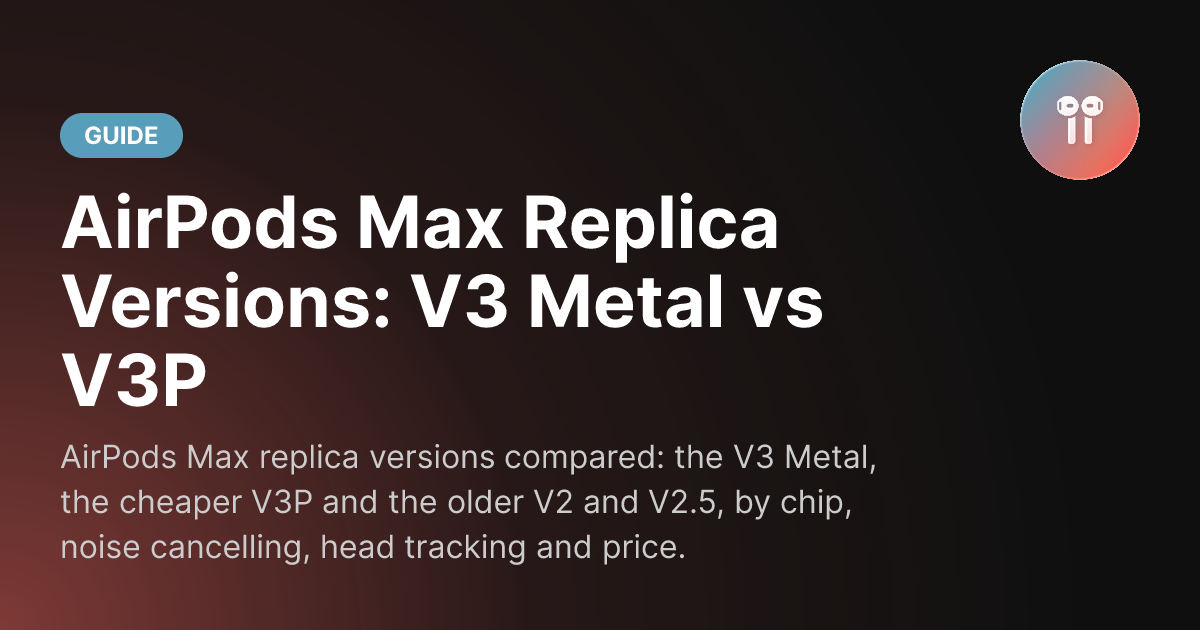
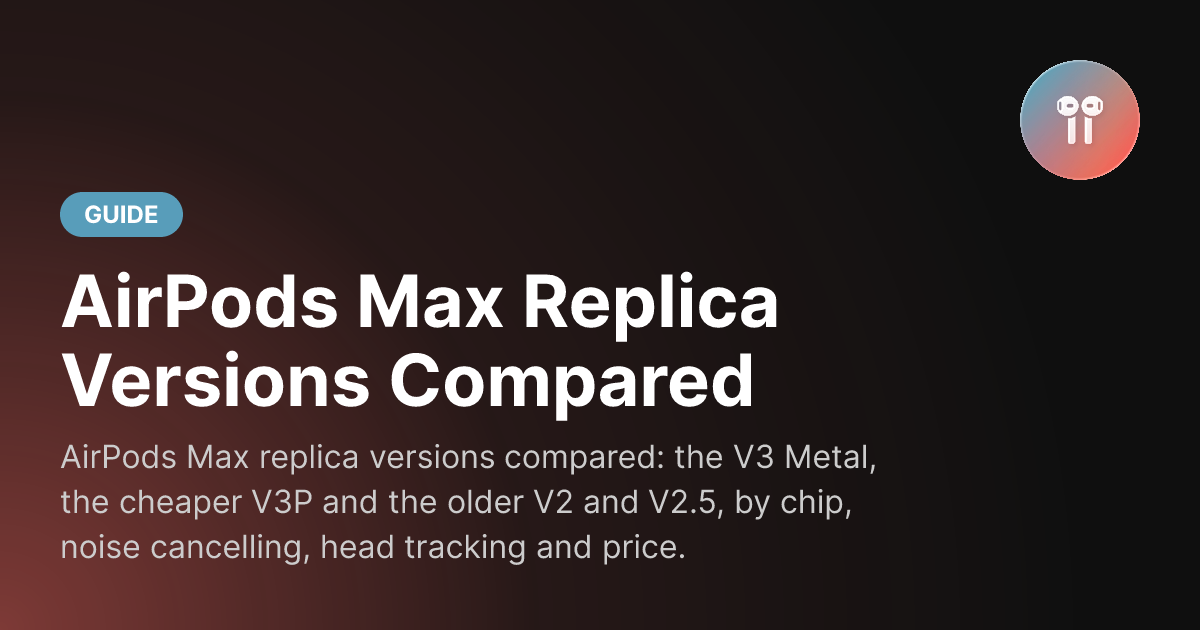
PayPal sometimes at HiCity too; FlyCC is on iOS; consistent Max title (#224)
Owner decision: PayPal is only sometimes available at HiCity, like Earhive.
The payments table cell and the how-to-buy FAQ (frontmatter and body) change
in all nine languages in this one commit so Translation Sync skips them;
llms-full.txt gets the same table row and FAQ line.

FlyCC article: five sentences said FlyCC is not on the iOS App Store and that
TigerBuilder uses CloudCC. Useful Apps links FlyCC on the App Store and says
CloudCC is a deprecated workaround for the storage permission issue, and the
AirPods Pro 2 page tells readers to check firmware in FlyCC on iOS. The
article now matches. The macOS mentions are unchanged.

AirPods Max versions title: "AirPods Max Replica Versions Compared", matching
the other version-info pages.

Changed region(s): [[0.0308, 0.4222, 0.7092, 0.6635], [0.0308, 0.3016, 0.6475, 0.4222], [0.0308, 0.181, 0.1542, 0.2714]]

diff --git a/docs/ru/ordering/how-to-buy.md b/docs/ru/ordering/how-to-buy.md
@@ -3,7 +3,7 @@ title: Как безопасно купить реплики AirPods
 description: 'Заказывайте реплики AirPods безопасно. Способы оплаты, проверенные продавцы, советы по доставке и как избежать мошенничества.'
 faq:
   - q: Какие способы оплаты принимают проверенные продавцы?
-    a: 'Проверенные продавцы принимают кредитные карты, Alipay, Revolut, Wise и Bitcoin. У всех продавцов есть витрины в Weidian, доступные через агентов, таких как KakoBuy. PayPal иногда доступен в Earhive, и агент KakoBuy также его принимает.'
+    a: 'Проверенные продавцы принимают кредитные карты, Alipay, Revolut, Wise и Bitcoin. У всех продавцов есть витрины в Weidian, доступные через агентов, таких как KakoBuy. PayPal иногда доступен в Earhive и HiCity, и агент KakoBuy также его принимает.'
   - q: Почему меня перенаправляют на криптовалютный сайт при оплате кредитной картой?
     a: 'Проверенные продавцы используют защищённый шлюз криптоплатежей для обработки оплат кредитной картой. Ваша карта покупает криптовалюту, которая завершает заказ. Чтобы избежать KYC, используйте KakoBuy — агента, принимающего обычные кредитные карты без проверки личности.'
   - q: Примечание по ссылкам на Alibaba и упаковке
@@ -42,7 +42,7 @@ faq:
 ## Часто задаваемые вопросы
 
 ::: details Какие методы оплаты принимают доверенные продавцы?
-Доверенные продавцы принимают несколько способов оплаты, включая кредитные карты, Alipay, Revolut, Wise и Bitcoin. У всех продавцов есть витрины на Weidian, доступные через агентов, таких как [KakoBuy](https://airreps.link/kakobuy) — ознакомьтесь с нашим [пошаговым руководством KakoBuy](/ru/ordering/kakobuy). PayPal иногда доступен в Earhive, и агент [KakoBuy](https://airreps.link/kakobuy) также его принимает. Варианты оплаты могут различаться в зависимости от продавца — см. [таблицу методов оплаты](/ru/links/info#payment-methods) для подробного разбора.
+Доверенные продавцы принимают несколько способов оплаты, включая кредитные карты, Alipay, Revolut, Wise и Bitcoin. У всех продавцов есть витрины на Weidian, доступные через агентов, таких как [KakoBuy](https://airreps.link/kakobuy) — ознакомьтесь с нашим [пошаговым руководством KakoBuy](/ru/ordering/kakobuy). PayPal иногда доступен в Earhive и HiCity, и агент [KakoBuy](https://airreps.link/kakobuy) также его принимает. Варианты оплаты могут различаться в зависимости от продавца — см. [таблицу методов оплаты](/ru/links/info#payment-methods) для подробного разбора.
 :::
 <span id="credit-card-note"></span>
 ::: details Почему меня перенаправляют на сайт крипто-платежей при оплате картой?

diff --git a/docs/articles/flycc-app-guide.md b/docs/articles/flycc-app-guide.md
@@ -9,10 +9,10 @@ order: 13
 
 FlyCC is the essential companion app for AirPods replicas running **Airoha chipsets** (including the Airoha 1562AE, 1562E, 1562F, and 1571AM). Because Apple's native iOS settings only expose surface-level controls, FlyCC provides low-level access to the silicon: custom parametric EQ tuning, touch sensor calibration, Active Noise Cancelling (ANC) balancing, and OTA firmware flashing.
 
-> **Quick Answer:** FlyCC is a free, third-party Android and macOS utility specifically designed for Airoha-based AirPods replicas. It lets you customize sound profiles via a built-in equalizer, modify pinch/tap sensitivity, and flash over-the-air firmware updates. It will not detect replicas powered by Huilian, BES, or budget Jieli chips.
+> **Quick Answer:** FlyCC is a free, third-party Android, iOS and macOS utility specifically designed for Airoha-based AirPods replicas. It lets you customize sound profiles via a built-in equalizer, modify pinch/tap sensitivity, and flash over-the-air firmware updates. It will not detect replicas powered by Huilian, BES, or budget Jieli chips.
 
-::: tip Android or Mac required
-FlyCC cannot be installed from the Apple iOS App Store due to Apple's third-party hardware restrictions. To configure your Airoha earbuds, install the Android APK on any Android smartphone, or run the community macOS release. Settings saved to the earbuds persist even when switched back to an iPhone.
+::: tip Android, iPhone or Mac
+FlyCC is available as an Android APK and on the iOS App Store; both are linked on [Useful Apps](/useful-apps#tigerbuilder). You can also run the community macOS release. Settings saved to the earbuds persist even when you switch to another phone.
 :::
 
 ## Supported chipsets
@@ -23,7 +23,7 @@ FlyCC works exclusively with **Airoha hardware**. If your earbuds connect, you h
 - **Airoha 1562E / 1563E** — Standard EQ, touch controls, and firmware tools.
 - **Airoha 1562F** — Legacy ANC and EQ controls.
 
-If FlyCC scans indefinitely and never detects your earbuds, your pair uses a different manufacturer's silicon (such as Huilian, which uses [Starfun](/useful-apps), or TigerBuilder, which uses [CloudCC](/useful-apps)) or an entry-level Jieli chip.
+If FlyCC scans indefinitely and never detects your earbuds, your pair uses a different manufacturer's silicon (such as Huilian, which uses [Starfun](/useful-apps)) or an entry-level Jieli chip.
 
 ## How to download and install FlyCC safely
 
@@ -87,9 +87,9 @@ Yes. The APKs hosted in the community Useful Apps directory are extracted from o
 :::
 
 ::: details Can I use FlyCC on an iPhone?
-No. Apple does not allow third-party apps to access raw Bluetooth serial profiles for non-MFi hardware. You must use an Android phone or a Mac to change FlyCC settings. However, all EQ and control changes write permanently to the earbuds' internal memory, so they carry over to your iPhone automatically.
+Yes. FlyCC is on the iOS App Store as well as an Android APK; both are linked on [Useful Apps](/useful-apps#tigerbuilder). All EQ and control changes write permanently to the earbuds' internal memory, so they stay when you switch devices.
 :::
 
 ::: details Why does FlyCC say "Device Not Found"?
-The most common reason is silicon mismatch: FlyCC only works with Airoha chips. If you own a Huilian model, use Starfun; if you own a TigerBuilder model, use CloudCC. If none connect, you likely have a budget Jieli unit.
+The most common reason is silicon mismatch: FlyCC only works with Airoha chips. If you own a Huilian model, use Starfun. TigerBuilder models use FlyCC; CloudCC is only a workaround if FlyCC hits the storage permission issue. If none connect, you likely have a budget Jieli unit.
 :::

diff --git a/docs/tr/ordering/how-to-buy.md b/docs/tr/ordering/how-to-buy.md
@@ -3,7 +3,7 @@ title: AirPods Replikalarını Güvenli Bir Şekilde Nasıl Satın Alınır
 description: 'AirPods replikalarını güvenli bir şekilde sipariş edin. Ödeme yöntemleri, güvenilir satıcılar, gönderim ipuçları ve dolandırıcılıklardan kaçınma.'
 faq:
   - q: Güvenilir satıcılar hangi ödeme yöntemlerini kabul ediyor?
-    a: 'Güvenilir satıcılar kredi kartları, Alipay, Revolut, Wise ve Bitcoin''i kabul eder. Tüm satıcıların KakoBuy gibi aracılar aracılığıyla erişilebilen Weidian vitrinleri vardır. PayPal, Earhive''da bazen kullanılabilir ve KakoBuy acentesi de PayPal''ı kabul eder.'
+    a: 'Güvenilir satıcılar kredi kartları, Alipay, Revolut, Wise ve Bitcoin''i kabul eder. Tüm satıcıların KakoBuy gibi aracılar aracılığıyla erişilebilen Weidian vitrinleri vardır. PayPal, Earhive ve HiCity''de bazen kullanılabilir ve KakoBuy acentesi de PayPal''ı kabul eder.'
   - q: Kredi kartı ile ödeme yaparken neden bir kripto web sitesine yönlendiriliyorum?
     a: Güvenilir satıcılar kredi kartı ödemelerini işlemek için güvenli bir kripto ödeme geçidi kullanır. Kartınız kripto satın alır; bu da siparişi tamamlar. KYC'den kaçınmak için KakoBuy'ı kullanın - kimlik kontrolleri olmadan normal kredi kartlarını kabul eden bir acente.
   - q: Alibaba Linkleri ve Ambalaj Hakkında Not
@@ -42,7 +42,7 @@ Birçok güvenilir satıcı artık Alipay kabul ediyor; bu, KYC doğrulaması ol
 ## Sıkça sorulan sorular
 
 ::: details Güvenilir satıcılar hangi ödeme yöntemlerini kabul ediyor?
-Güvenilir satıcılar Kredi kartları, Alipay, Revolut, Wise ve Bitcoin dahil olmak üzere birden fazla ödeme yöntemini kabul eder. Tüm satıcıların [KakoBuy](https://airreps.link/kakobuy) gibi aracılar aracılığıyla erişilebilen Weidian mağazaları vardır — adım adım [KakoBuy rehberimize](/tr/ordering/kakobuy) göz atın. PayPal, Earhive'da bazen kullanılabilir ve [KakoBuy](https://airreps.link/kakobuy) acentesi de PayPal kabul eder. Ödeme seçenekleri satıcıya göre değişebilir — ayrıntılı döküm için [ödeme yöntemleri tablosuna](/tr/links/info#payment-methods) bakın.
+Güvenilir satıcılar Kredi kartları, Alipay, Revolut, Wise ve Bitcoin dahil olmak üzere birden fazla ödeme yöntemini kabul eder. Tüm satıcıların [KakoBuy](https://airreps.link/kakobuy) gibi aracılar aracılığıyla erişilebilen Weidian mağazaları vardır — adım adım [KakoBuy rehberimize](/tr/ordering/kakobuy) göz atın. PayPal, Earhive ve HiCity'de bazen kullanılabilir ve [KakoBuy](https://airreps.link/kakobuy) acentesi de PayPal kabul eder. Ödeme seçenekleri satıcıya göre değişebilir — ayrıntılı döküm için [ödeme yöntemleri tablosuna](/tr/links/info#payment-methods) bakın.
 :::
 <span id="credit-card-note"></span>
 ::: details Kredi kartı ile ödeme yaparken neden beni kripto bir siteye yönlendiriyorlar?

diff --git a/docs/fr/ordering/how-to-buy.md b/docs/fr/ordering/how-to-buy.md
@@ -3,7 +3,7 @@ title: Comment acheter des répliques d'AirPods en toute sécurité
 description: 'Commander des répliques d''AirPods en toute sécurité. Méthodes de paiement, vendeurs fiables, conseils d''expédition et éviter les arnaques.'
 faq:
   - q: Quelles méthodes de paiement les vendeurs fiables acceptent-ils ?
-    a: 'Les vendeurs fiables acceptent les cartes de crédit, Alipay, Revolut, Wise et Bitcoin. Tous les vendeurs ont des boutiques Weidian accessibles via des agents comme KakoBuy. PayPal est parfois disponible chez Earhive, et l''agent KakoBuy l''accepte également.'
+    a: 'Les vendeurs fiables acceptent les cartes de crédit, Alipay, Revolut, Wise et Bitcoin. Tous les vendeurs ont des boutiques Weidian accessibles via des agents comme KakoBuy. PayPal est parfois disponible chez Earhive et HiCity, et l''agent KakoBuy l''accepte également.'
   - q: Pourquoi suis-je redirigé vers un site crypto lorsque je paie par carte de crédit ?
     a: 'Les vendeurs fiables utilisent une passerelle de paiement crypto sécurisée pour traiter les paiements par carte de crédit. Votre carte achète des crypto-monnaies, ce qui complète la commande. Pour éviter le KYC, utilisez KakoBuy — un agent qui accepte des cartes de crédit ordinaires sans vérification d''identité.'
   - q: Remarque sur les liens Alibaba et l'emballage
@@ -42,7 +42,7 @@ De nombreux vendeurs de confiance acceptent désormais Alipay, permettant des pa
 ## FAQ
 
 ::: details Quels modes de paiement les vendeurs de confiance acceptent-ils ?
-Les vendeurs de confiance acceptent plusieurs moyens de paiement, notamment les cartes bancaires, Alipay, Revolut, Wise et Bitcoin. Tous les vendeurs ont des boutiques Weidian accessibles via des agents comme [KakoBuy](https://airreps.link/kakobuy) — consultez notre [guide pas à pas KakoBuy](/fr/ordering/kakobuy). PayPal est parfois disponible chez Earhive, et l'agent [KakoBuy](https://airreps.link/kakobuy) l'accepte également. Les options de paiement peuvent varier selon le vendeur — consultez le [tableau des méthodes de paiement](/fr/links/info#payment-methods) pour un aperçu détaillé.
+Les vendeurs de confiance acceptent plusieurs moyens de paiement, notamment les cartes bancaires, Alipay, Revolut, Wise et Bitcoin. Tous les vendeurs ont des boutiques Weidian accessibles via des agents comme [KakoBuy](https://airreps.link/kakobuy) — consultez notre [guide pas à pas KakoBuy](/fr/ordering/kakobuy). PayPal est parfois disponible chez Earhive et HiCity, et l'agent [KakoBuy](https://airreps.link/kakobuy) l'accepte également. Les options de paiement peuvent varier selon le vendeur — consultez le [tableau des méthodes de paiement](/fr/links/info#payment-methods) pour un aperçu détaillé.
 :::
 <span id="credit-card-note"></span>
 ::: details Pourquoi suis-je redirigé vers un site crypto lorsque je paie par carte de crédit ?

diff --git a/docs/de/ordering/how-to-buy.md b/docs/de/ordering/how-to-buy.md
@@ -3,7 +3,7 @@ title: Wie man AirPods-Repliken sicher kauft
 description: 'AirPods-Repliken sicher bestellen. Zahlungsmethoden, vertrauenswürdige Verkäufer, Versandtipps und Betrugsvermeidung.'
 faq:
   - q: Welche Zahlungsmethoden akzeptieren vertrauenswürdige Verkäufer?
-    a: 'Vertrauenswürdige Verkäufer akzeptieren Kreditkarten, Alipay, Revolut, Wise und Bitcoin. Alle Verkäufer haben Weidian-Shops, die über Agenten wie KakoBuy zugänglich sind. PayPal ist bei Earhive manchmal verfügbar, und der KakoBuy-Agent akzeptiert es ebenfalls.'
+    a: 'Vertrauenswürdige Verkäufer akzeptieren Kreditkarten, Alipay, Revolut, Wise und Bitcoin. Alle Verkäufer haben Weidian-Shops, die über Agenten wie KakoBuy zugänglich sind. PayPal ist bei Earhive und HiCity manchmal verfügbar, und der KakoBuy-Agent akzeptiert es ebenfalls.'
   - q: Warum werde ich beim Bezahlen mit Kreditkarte auf eine Krypto-Webseite weitergeleitet?
     a: 'Vertrauenswürdige Verkäufer nutzen ein sicheres Krypto-Zahlungs-Gateway, um Kreditkartenzahlungen abzuwickeln. Ihre Karte kauft Krypto, womit die Bestellung abgeschlossen wird. Um KYC zu vermeiden, verwenden Sie KakoBuy — einen Agenten, der normale Kreditkarten ohne Identitätsprüfung akzeptiert.'
   - q: Hinweis zu Alibaba-Links und Verpackung
@@ -42,7 +42,7 @@ Viele vertrauenswürdige Verkäufer akzeptieren jetzt Alipay, was einfache Karte
 ## Häufig gestellte Fragen
 
 ::: details Welche Zahlungsmethoden akzeptieren vertrauenswürdige Verkäufer?
-Vertrauenswürdige Verkäufer akzeptieren mehrere Zahlungsmethoden, darunter Kreditkarten, Alipay, Revolut, Wise und Bitcoin. Alle Verkäufer haben Weidian-Shops, die über Agenten wie [KakoBuy](https://airreps.link/kakobuy) zugänglich sind — siehe unseren [schrittweisen KakoBuy-Leitfaden](/de/ordering/kakobuy). PayPal ist bei Earhive manchmal verfügbar, und der [KakoBuy](https://airreps.link/kakobuy)-Agent akzeptiert ihn ebenfalls. Die Zahlungsoptionen können je nach Verkäufer variieren — siehe die [Tabelle der Zahlungsmethoden](/de/links/info#payment-methods) für eine detaillierte Aufschlüsselung.
+Vertrauenswürdige Verkäufer akzeptieren mehrere Zahlungsmethoden, darunter Kreditkarten, Alipay, Revolut, Wise und Bitcoin. Alle Verkäufer haben Weidian-Shops, die über Agenten wie [KakoBuy](https://airreps.link/kakobuy) zugänglich sind — siehe unseren [schrittweisen KakoBuy-Leitfaden](/de/ordering/kakobuy). PayPal ist bei Earhive und HiCity manchmal verfügbar, und der [KakoBuy](https://airreps.link/kakobuy)-Agent akzeptiert ihn ebenfalls. Die Zahlungsoptionen können je nach Verkäufer variieren — siehe die [Tabelle der Zahlungsmethoden](/de/links/info#payment-methods) für eine detaillierte Aufschlüsselung.
 :::
 <span id="credit-card-note"></span>
 ::: details Warum werde ich beim Bezahlen mit Kreditkarte auf eine Krypto-Website weitergeleitet?

diff --git a/docs/es/ordering/how-to-buy.md b/docs/es/ordering/how-to-buy.md
@@ -3,7 +3,7 @@ title: Cómo Comprar Réplicas de AirPods de Forma Segura
 description: 'Pide réplicas de AirPods de forma segura. Métodos de pago, vendedores de confianza, consejos de envío y cómo evitar estafas.'
 faq:
   - q: ¿Qué métodos de pago aceptan los vendedores de confianza?
-    a: 'Los vendedores de confianza aceptan tarjetas de crédito, Alipay, Revolut, Wise y Bitcoin. Todos los vendedores tienen tiendas en Weidian accesibles a través de agentes como KakoBuy. PayPal está disponible a veces en Earhive, y el agente KakoBuy también lo acepta.'
+    a: 'Los vendedores de confianza aceptan tarjetas de crédito, Alipay, Revolut, Wise y Bitcoin. Todos los vendedores tienen tiendas en Weidian accesibles a través de agentes como KakoBuy. PayPal está disponible a veces en Earhive y HiCity, y el agente KakoBuy también lo acepta.'
   - q: ¿Por qué me redirigen a un sitio web de criptomonedas cuando pago con tarjeta de crédito?
     a: 'Los vendedores de confianza usan una pasarela de pago cripto segura para procesar los pagos con tarjeta de crédito. Tu tarjeta compra cripto, lo que completa el pedido. Para evitar KYC, usa KakoBuy — un agente que acepta tarjetas de crédito normales sin verificaciones de identidad.'
   - q: Nota Sobre Enlaces de Alibaba y Embalaje
@@ -42,7 +42,7 @@ Muchos vendedores de confianza ahora aceptan Alipay, lo que permite pagos con ta
 ## Preguntas frecuentes
 
 ::: details ¿Qué métodos de pago aceptan los vendedores de confianza?
-Los vendedores de confianza aceptan múltiples métodos de pago, incluidos Credit Cards, Alipay, Revolut, Wise y Bitcoin. Todos los vendedores tienen escaparates en Weidian accesibles a través de agentes como [KakoBuy](https://airreps.link/kakobuy) — consulta nuestra [guía paso a paso de KakoBuy](/es/ordering/kakobuy). PayPal está disponible a veces en Earhive, y el agente [KakoBuy](https://airreps.link/kakobuy) también lo acepta. Las opciones de pago pueden variar según el vendedor — consulta la [tabla de métodos de pago](/es/links/info#payment-methods) para un desglose detallado.
+Los vendedores de confianza aceptan múltiples métodos de pago, incluidos Credit Cards, Alipay, Revolut, Wise y Bitcoin. Todos los vendedores tienen escaparates en Weidian accesibles a través de agentes como [KakoBuy](https://airreps.link/kakobuy) — consulta nuestra [guía paso a paso de KakoBuy](/es/ordering/kakobuy). PayPal está disponible a veces en Earhive y HiCity, y el agente [KakoBuy](https://airreps.link/kakobuy) también lo acepta. Las opciones de pago pueden variar según el vendedor — consulta la [tabla de métodos de pago](/es/links/info#payment-methods) para un desglose detallado.
 :::
 <span id="credit-card-note"></span>
 ::: details ¿Por qué me redirigen a un sitio de criptomonedas al pagar con tarjeta de crédito?

diff --git a/docs/pl/ordering/how-to-buy.md b/docs/pl/ordering/how-to-buy.md
@@ -3,7 +3,7 @@ title: Jak Bezpiecznie Kupować Repliki AirPods
 description: 'Bezpiecznie zamów repliki AirPods. Metody płatności, zaufani sprzedawcy, wskazówki dotyczące wysyłki i unikanie oszustw.'
 faq:
   - q: Jakie metody płatności akceptują zaufani sprzedawcy?
-    a: 'Zaufani sprzedawcy akceptują karty kredytowe, Alipay, Revolut, Wise i Bitcoin. Wszyscy sprzedawcy mają sklepy Weidian dostępne przez agentów takich jak KakoBuy. PayPal jest czasami dostępny w Earhive, a agent KakoBuy również go akceptuje.'
+    a: 'Zaufani sprzedawcy akceptują karty kredytowe, Alipay, Revolut, Wise i Bitcoin. Wszyscy sprzedawcy mają sklepy Weidian dostępne przez agentów takich jak KakoBuy. PayPal jest czasami dostępny w Earhive i HiCity, a agent KakoBuy również go akceptuje.'
   - q: Dlaczego jestem przekierowywany na stronę kryptowalutową przy płatności kartą kredytową?
     a: 'Zaufani sprzedawcy używają bezpiecznej bramki płatności kryptowalutowych do obsługi płatności kartą kredytową. Twoja karta kupuje kryptowaluty, które finalizują zamówienie. Aby uniknąć KYC, użyj KakoBuy — agenta, który akceptuje zwykłe karty kredytowe bez weryfikacji tożsamości.'
   - q: Uwaga dotycząca linków na Alibaba i opakowań
@@ -42,7 +42,7 @@ Wielu zaufanych sprzedawców akceptuje teraz Alipay, co umożliwia łatwe płatn
 ## Najczęściej zadawane pytania
 
 ::: details Jakie metody płatności akceptują zaufani sprzedawcy?
-Zaufani sprzedawcy akceptują wiele metod płatności, w tym karty kredytowe, Alipay, Revolut, Wise i Bitcoin. Wszyscy sprzedawcy mają sklepy Weidian dostępne przez agentów takich jak [KakoBuy](https://airreps.link/kakobuy) — sprawdź nasz [krok po kroku przewodnik KakoBuy](/pl/ordering/kakobuy). PayPal jest czasami dostępny w Earhive, a agent [KakoBuy](https://airreps.link/kakobuy) również go akceptuje. Opcje płatności mogą się różnić w zależności od sprzedawcy — zobacz [tabela metod płatności](/pl/links/info#payment-methods) dla szczegółowego rozkładu.
+Zaufani sprzedawcy akceptują wiele metod płatności, w tym karty kredytowe, Alipay, Revolut, Wise i Bitcoin. Wszyscy sprzedawcy mają sklepy Weidian dostępne przez agentów takich jak [KakoBuy](https://airreps.link/kakobuy) — sprawdź nasz [krok po kroku przewodnik KakoBuy](/pl/ordering/kakobuy). PayPal jest czasami dostępny w Earhive i HiCity, a agent [KakoBuy](https://airreps.link/kakobuy) również go akceptuje. Opcje płatności mogą się różnić w zależności od sprzedawcy — zobacz [tabela metod płatności](/pl/links/info#payment-methods) dla szczegółowego rozkładu.
 :::
 <span id="credit-card-note"></span>
 ::: details Dlaczego jestem przekierowywany na stronę z kryptowalutami podczas płatności kartą kredytową?

diff --git a/docs/pt/ordering/how-to-buy.md b/docs/pt/ordering/how-to-buy.md
@@ -3,7 +3,7 @@ title: Como Comprar Réplicas de AirPods com Segurança
 description: 'Encomende réplicas de AirPods de forma segura. Métodos de pagamento, vendedores confiáveis, dicas de envio e como evitar golpes.'
 faq:
   - q: Quais métodos de pagamento os vendedores confiáveis aceitam?
-    a: 'Vendedores confiáveis aceitam Cartões de Crédito, Alipay, Revolut, Wise e Bitcoin. Todos os vendedores têm lojas Weidian acessíveis através de agentes como KakoBuy. PayPal às vezes está disponível na Earhive, e o agente KakoBuy também o aceita.'
+    a: 'Vendedores confiáveis aceitam Cartões de Crédito, Alipay, Revolut, Wise e Bitcoin. Todos os vendedores têm lojas Weidian acessíveis através de agentes como KakoBuy. PayPal às vezes está disponível na Earhive e na HiCity, e o agente KakoBuy também o aceita.'
   - q: Por que sou redirecionado para um site de cripto ao pagar com Cartão de Crédito?
     a: 'Vendedores confiáveis usam um gateway de pagamento cripto seguro para processar pagamentos com Cartão de Crédito. Seu cartão compra criptomoeda, que conclui o pedido. Para evitar KYC, use o KakoBuy — um agente que aceita cartões de crédito comuns sem verificações de identidade.'
   - q: Nota sobre links do Alibaba e embalagem
@@ -42,7 +42,7 @@ Muitos vendedores confiáveis agora aceitam Alipay, permitindo pagamentos com ca
 ## Perguntas frequentes
 
 ::: details Quais métodos de pagamento os vendedores confiáveis aceitam?
-Os vendedores confiáveis aceitam múltiplos métodos de pagamento, incluindo Cartões de crédito, Alipay, Revolut, Wise e Bitcoin. Todos os vendedores têm lojas Weidian acessíveis através de agentes como [KakoBuy](https://airreps.link/kakobuy) — confira nosso [guia passo a passo do KakoBuy](/pt/ordering/kakobuy). PayPal às vezes está disponível na Earhive, e o agente [KakoBuy](https://airreps.link/kakobuy) também o aceita. As opções de pagamento podem variar por vendedor — veja a [tabela de métodos de pagamento](/pt/links/info#payment-methods) para um detalhamento.
+Os vendedores confiáveis aceitam múltiplos métodos de pagamento, incluindo Cartões de crédito, Alipay, Revolut, Wise e Bitcoin. Todos os vendedores têm lojas Weidian acessíveis através de agentes como [KakoBuy](https://airreps.link/kakobuy) — confira nosso [guia passo a passo do KakoBuy](/pt/ordering/kakobuy). PayPal às vezes está disponível na Earhive e na HiCity, e o agente [KakoBuy](https://airreps.link/kakobuy) também o aceita. As opções de pagamento podem variar por vendedor — veja a [tabela de métodos de pagamento](/pt/links/info#payment-methods) para um detalhamento.
 :::
 <span id="credit-card-note"></span>
 ::: details Por que sou redirecionado para um site de cripto ao pagar com Cartão de crédito?

diff --git a/docs/da/ordering/how-to-buy.md b/docs/da/ordering/how-to-buy.md
@@ -3,7 +3,7 @@ title: Sådan Køber Du AirPods-Kopier Sikkert
 description: 'Bestil AirPods-kopier sikkert. Betalingsmetoder, betroede sælgere, forsendelsestips og undgå svindel.'
 faq:
   - q: Hvilke betalingsmetoder accepterer betroede sælgere?
-    a: 'Betroede sælgere accepterer Kreditkort, Alipay, Revolut, Wise og Bitcoin. Alle sælgere har Weidian-butikker, der kan tilgås gennem agenter som KakoBuy. PayPal er nogle gange tilgængelig hos Earhive, og KakoBuy-agenten accepterer det også.'
+    a: 'Betroede sælgere accepterer Kreditkort, Alipay, Revolut, Wise og Bitcoin. Alle sælgere har Weidian-butikker, der kan tilgås gennem agenter som KakoBuy. PayPal er nogle gange tilgængelig hos Earhive og HiCity, og KakoBuy-agenten accepterer det også.'
   - q: 'Hvorfor bliver jeg omdirigeret til et krypto-websted, når jeg betaler med Kreditkort?'
     a: 'Betroede sælgere bruger en sikker krypto-betalingsgateway til at behandle Kreditkortbetalinger. Dit kort køber krypto, hvilket fuldfører ordren. For at undgå KYC, brug KakoBuy — en agent, der accepterer almindelige kreditkort uden identitetskontrol.'
   - q: Bemærkning om Alibaba-links og emballage
@@ -42,7 +42,7 @@ Mange betroede sælgere accepterer nu Alipay, hvilket gør det nemt at betale me
 ## Ofte stillede spørgsmål
 
 ::: details Hvilke betalingsmetoder accepterer betroede sælgere?
-Betroede sælgere accepterer flere betalingsmetoder, herunder kreditkort, Alipay, Revolut, Wise og Bitcoin. Alle sælgere har Weidian-butikker, der kan nås gennem agenter som [KakoBuy](https://airreps.link/kakobuy) — se vores [trin-for-trin KakoBuy-guide](/da/ordering/kakobuy). PayPal er nogle gange tilgængelig hos Earhive, og agenten [KakoBuy](https://airreps.link/kakobuy) accepterer det også. Betalingsmuligheder kan variere efter sælger — se [betalingsmetodetabellen](/da/links/info#payment-methods) for en detaljeret oversigt.
+Betroede sælgere accepterer flere betalingsmetoder, herunder kreditkort, Alipay, Revolut, Wise og Bitcoin. Alle sælgere har Weidian-butikker, der kan nås gennem agenter som [KakoBuy](https://airreps.link/kakobuy) — se vores [trin-for-trin KakoBuy-guide](/da/ordering/kakobuy). PayPal er nogle gange tilgængelig hos Earhive og HiCity, og agenten [KakoBuy](https://airreps.link/kakobuy) accepterer det også. Betalingsmuligheder kan variere efter sælger — se [betalingsmetodetabellen](/da/links/info#payment-methods) for en detaljeret oversigt.
 :::
 <span id="credit-card-note"></span>
 ::: details Hvorfor bliver jeg omdirigeret til en crypto-hjemmeside, når jeg betaler med kreditkort?

diff --git a/docs/ordering/how-to-buy.md b/docs/ordering/how-to-buy.md
@@ -3,7 +3,7 @@ title: "How to Buy AirPods Replicas Safely"
 description: Securely order AirPods replicas. Payment methods, trusted sellers, shipping tips, and avoiding scams.
 faq:
   - q: "What payment methods do trusted sellers accept?"
-    a: "Trusted sellers accept Credit Cards, Alipay, Revolut, Wise, and Bitcoin. All sellers have Weidian storefronts accessible through agents like KakoBuy. PayPal is sometimes available at Earhive, and the KakoBuy agent also accepts it."
+    a: "Trusted sellers accept Credit Cards, Alipay, Revolut, Wise, and Bitcoin. All sellers have Weidian storefronts accessible through agents like KakoBuy. PayPal is sometimes available at Earhive and HiCity, and the KakoBuy agent also accepts it."
   - q: "Why am I redirected to a crypto website when paying via Credit Card?"
     a: "Trusted sellers use a secure crypto payment gateway to process Credit Card payments. Your card buys crypto, which completes the order. To avoid KYC, use KakoBuy — an agent that accepts regular credit cards without identity checks."
   - q: "Note on Alibaba links and packaging"
@@ -41,7 +41,7 @@ Many trusted sellers now accept Alipay, allowing easy card payments without KYC 
 ## FAQ
 
 ::: details What payment methods do trusted sellers accept?
-Trusted sellers accept multiple payment methods including Credit Cards, Alipay, Revolut, Wise, and Bitcoin. All sellers have Weidian storefronts accessible through agents like [KakoBuy](https://airreps.link/kakobuy) — check out our [step-by-step KakoBuy guide](/ordering/kakobuy). PayPal is sometimes available at Earhive, and the [KakoBuy](https://airreps.link/kakobuy) agent also accepts it. Payment options may vary by seller — see the [payment methods table](/links/info#payment-methods) for a detailed breakdown.
+Trusted sellers accept multiple payment methods including Credit Cards, Alipay, Revolut, Wise, and Bitcoin. All sellers have Weidian storefronts accessible through agents like [KakoBuy](https://airreps.link/kakobuy) — check out our [step-by-step KakoBuy guide](/ordering/kakobuy). PayPal is sometimes available at Earhive and HiCity, and the [KakoBuy](https://airreps.link/kakobuy) agent also accepts it. Payment options may vary by seller — see the [payment methods table](/links/info#payment-methods) for a detailed breakdown.
 :::
 <span id="credit-card-note"></span>
 ::: details Why am I redirected to a crypto website when paying via Credit Card?

diff --git a/docs/pt/links/info.md b/docs/pt/links/info.md
@@ -62,7 +62,7 @@ Todos os vendedores confiáveis aceitam vários métodos de pagamento para sua c
 |----------------|---------|--------|-------|
 | [**Cartão de crédito / débito**](#credit-card) | ✅ | ✅ | ✅ |
 | **Alipay** | ✅ | ❌ | ✅ |
-| **PayPal** | ⚠ Às vezes | ✅ | ❌ |
+| **PayPal** | ⚠ Às vezes | ⚠ Às vezes | ❌ |
 | **Revolut** | ✅ | ✅ | ✅ |
 | [**Wise**](https://airreps.link/wise) | ✅ | ✅ | ✅ |
 | **Xoom** | ❌ | ❌ | ❌ |

diff --git a/docs/da/links/info.md b/docs/da/links/info.md
@@ -62,7 +62,7 @@ Alle troværdige sælgere accepterer flere betalingsmetoder for din bekvemmeligh
 |----------------|---------|--------|-------|
 | [**Kredit-/debetkort**](#credit-card) | ✅ | ✅ | ✅ |
 | **Alipay** | ✅ | ❌ | ✅ |
-| **PayPal** | ⚠ Nogle gange | ✅ | ❌ |
+| **PayPal** | ⚠ Nogle gange | ⚠ Nogle gange | ❌ |
 | **Revolut** | ✅ | ✅ | ✅ |
 | [**Wise**](https://airreps.link/wise) | ✅ | ✅ | ✅ |
 | **Xoom** | ❌ | ❌ | ❌ |
